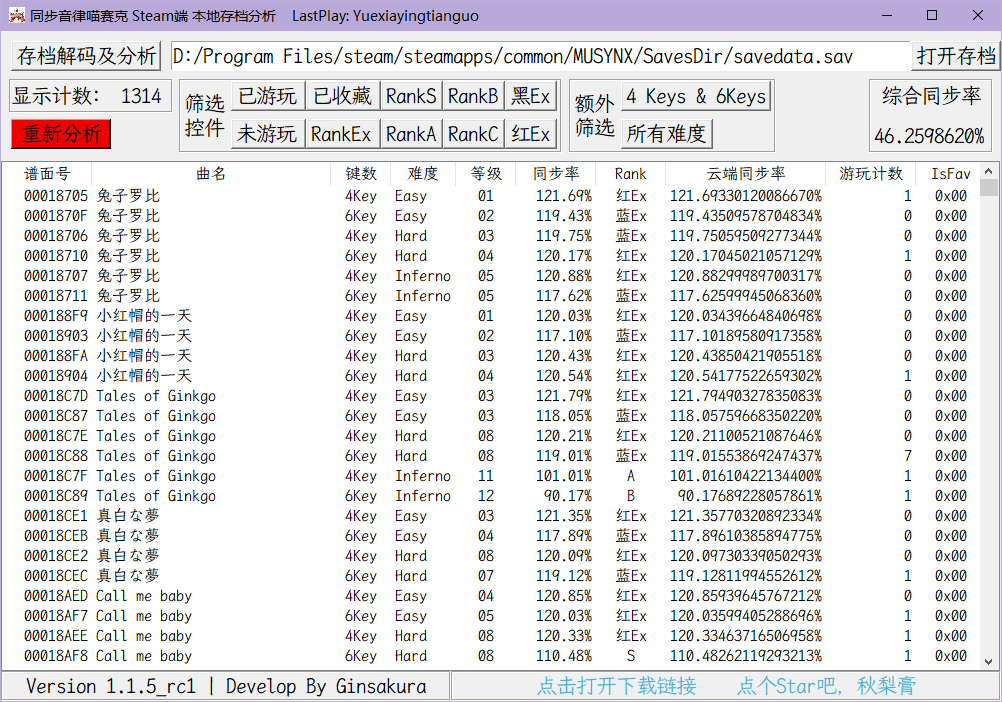
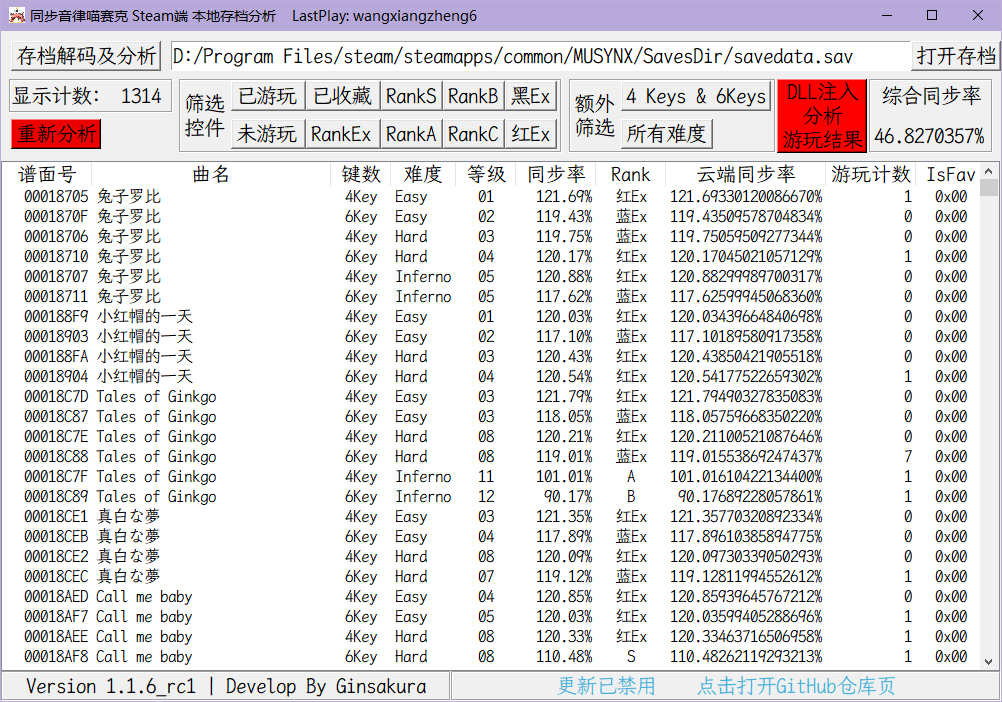
发布1.1.6正式版啦——

diff --git a/HitDelay.py b/HitDelay.py
@@ -9,6 +9,7 @@ from os.path import isfile
 from hashlib import md5
 from os import rename
 from FileExport import WriteHitDelayFix
+import sqlite3 as sql
 
 class HitDelayCheck(object):
 	"""docstring for HitDelayWindow"""
@@ -37,16 +38,26 @@ class HitDelayCheck(object):
 class HitDelayText(object):
 	"""docstring for DrawHDLine"""
 	def __init__(self,subroot):
+		if isfile('./musync_data/HitDelayHistory.db'):
+			self.db = sql.connect('./musync_data/HitDelayHistory.db')
+			self.cur = self.db.cursor()
+
+		else:
+			self.db = sql.connect('./musync_data/HitDelayHistory.db')
+			self.cur = self.db.cursor()
+			self.cur.execute('''create table HitDelayHistory (
+				SongMapName text Primary Key,
+				AvgDelay float,
+				AllKeys int,
+				AvgAcc float,
+				HitMap text);''')
 		self.subroot = subroot
 		self.font=('霞鹜文楷等宽',16)
 		self.subroot.iconbitmap('./musync_data/Musync.ico')
 		self.subroot.geometry(f'1000x600+600+400')
-		style = ttk.Style()
-		style.configure("Treeview", rowheight=20, font=('霞鹜文楷等宽',14))
-		style.configure("Treeview.Heading", rowheight=20, font=('霞鹜文楷等宽',16))
 		self.subroot.title("高精度延迟分析")
 		self.subroot['background'] = '#efefef'
-		self.tipLabel = Label(self.subroot,font=self.font, relief="groove",text='请将控制台中的内容粘贴进右面的文本框，然后点击按钮↘')
+		self.tipLabel = Label(self.subroot,font=self.font, relief="groove",text='↓将您用来辨识谱面的方式填入右侧文本框      请将控制台中的内容粘贴进右面的文本框，然后点击按钮↓')
 		self.tipLabel.place(x=0,y=0,height=40,relwidth=1)
 		self.logText = Text(self.subroot,font=self.font)
 		self.logText.place(relx=0.7,y=70,relheight=0.88,relwidth=0.3)
@@ -57,79 +68,113 @@ class HitDelayText(object):
 		self.nameDelayEntry = Entry(self.subroot,font=self.font, relief="sunken")
 		self.nameDelayEntry.place(relx=0.01,y=100,height=30,relwidth=0.68)
 		self.delayHistory = ttk.Treeview(self.subroot, show="headings", columns = ['name','AllKeys','AvgDelay','AvgAcc'])
-		self.delayHistory.place(x=0,y=130,relheight=0.78,relwidth=0.7)
-		self.VScroll1 = Scrollbar(self.delayHistory, orient='vertical', command=self.delayHistory.yview)
+		self.delayHistory.place(x=0,y=130,relheight=0.78,relwidth=0.68)
+		self.VScroll1 = Scrollbar(self.subroot, orient='vertical', command=self.delayHistory.yview)
 		self.delayHistory.configure(yscrollcommand=self.VScroll1.set)
-		self.VScroll1.place(relx=0.97,rely=0.005,relheight=0.99,width=20)
+		self.VScroll1.place(relx=0.68,y=130,relheight=0.78,relwidth=0.02)
 
-		self.History()
+		self.history = list()
+		self.HistoryUpdate()
 		self.UpdateWindowInfo()
 
+	def HistoryUpdate(self):
+		ids = self.delayHistory.get_children()
+		for idx in ids:
+			self.delayHistory.delete(idx)
+		data = self.cur.execute("select * from HitDelayHistory")
+		data = data.fetchall()
+		for ids in data:
+			self.history = list()
+			self.history.append(ids[0])
+			self.delayHistory.insert('', END, values=(ids[0],ids[2],'%.6f ms'%ids[1],'%.6f ms'%ids[3]))
+		del data
+
 	def Draw(self):
-		data = self.logText.get("0.0", "end")
-		HitDelayDraw(data,self.nameDelayEntry.get())
-		self.History()
+		data = self.logText.get("0.0", "end").split('\n')
+		dataIndex = self.GetIndex(data)
+		dataList=list()
+		name = self.nameDelayEntry.get()+f"-{dt.now()}"
+		if data[-1] == "":
+			data.pop(-1)
+		for ids in range(dataIndex,len(data)-1):
+			dataList.append(float(data[ids][13:-2]))
+		allKeys = len(dataList)
+		avgDelay = sum(dataList)/allKeys
+		avgAcc = sum([abs(i) for i in dataList])/allKeys
+		dataList = [name,avgDelay,allKeys,avgAcc,dataList]
+		self.delayHistory.insert('', END, values=(name,allKeys,'%.6f ms'%avgDelay,'%.6f ms'%avgAcc))
+		dataListStr = ""
+		for i in dataList:
+			dataListStr += f'{i}|'
+		self.cur.execute("insert into HitDelayHistory values(?,?,?,?,?)",(name,avgDelay,allKeys,avgAcc,dataListStr[:-1]))
+		self.db.commit()
+		self.HistoryUpdate()
+		HitDelayDraw(dataList,isHistory=False)
 
-	def History(self):
-		if isfile('./musync_data/HitDelayHistory.json'):
-			with open('./musync_data/HitDelayHistory.json','r',encoding='utf8') as f:
-				history = json.load(f)
-			del f
-			# print(history.keys())
-			for ids in history:
-				self.delayHistory.insert('', END, values=(ids,history[ids][1],'%.6f ms'%history[ids][0],'%.6f ms'%history[ids][2]))
 
+	def GetIndex(self,data):
+		b=list()
+		for index, value in enumerate(data):
+			if value == '> Game Start!':
+				b.append(index)
+		if len(b)==0:
+			return 0
+		else:
+			return (b[-1]+1)
 
-	def HistoryDraw(self,*args):
-		print(args)
-		pass
+	def HistoryDraw(self,event):
+		e = event.widget									# 取得事件控件
+		itemID = e.identify("item",event.x,event.y)			# 取得双击项目id
+		# state = e.item(itemID,"text")						# 取得text参数
+		historyItem = e.item(itemID,"values")				# 取得values参数
+		# print(e.item(itemID))
+		if not self.history == []:
+			data = self.cur.execute(f'select * from HitDelayHistory where SongMapName=\'{historyItem[0]}\'')
+			data = data.fetchone()
+			HitDelayDraw(data,isHistory=True)
+			# print(self.history[historyItem[0]])
 
 	def UpdateWindowInfo(self):
 		self.delayHistory.heading("name",anchor="center",text="曲名/时间")
 		self.delayHistory.heading("AllKeys",anchor="center",text="Keys")
 		self.delayHistory.heading("AvgDelay",anchor="center",text="Delay")
 		self.delayHistory.heading("AvgAcc",anchor="center",text="AvgAcc")
-		self.delayHistory.column("name",anchor="w",width=320)
+		self.delayHistory.column("name",anchor="w",width=300)
 		self.delayHistory.column("AllKeys",anchor="e",width=60)
 		self.delayHistory.column("AvgDelay",anchor="e",width=150)
 		self.delayHistory.column("AvgAcc",anchor="e",width=150)
-		self.subroot.update()
 		self.delayHistory.bind("<Double-1>",self.HistoryDraw)
 
 		self.subroot.update()
-		self.subroot.after(500,self.UpdateWindowInfo)
+		# self.subroot.after(500,self.UpdateWindowInfo)
 
 class HitDelayDraw(object):
 	"""docstring for ClassName"""
-	def __init__(self, data,name):
-		self.data = data.split('\n')
-		self.name = name + f"{dt.now()}"
-		p = self.GetIndex()
-		self.x_axis = [i for i in range(1,len(self.data)-p-1)]
-		self.zero_axis = [0 for i in range(p,len(self.data)-2)]
-		self.EXTRAa = [45 for i in range(p,len(self.data)-2)]
-		self.EXTRAb = [-45 for i in range(p,len(self.data)-2)]
-		self.Extraa = [90 for i in range(p,len(self.data)-2)]
-		self.Extrab = [-90 for i in range(p,len(self.data)-2)]
-		self.Greata = [150 for i in range(p,len(self.data)-2)]
-		self.Greatb = [-150 for i in range(p,len(self.data)-2)]
-		self.Right = [250 for i in range(p,len(self.data)-2)]
-		self.pos = p
-		self.y_axis = list()
-		for i in range(p,len(self.data)-2):
-			# print(self.data[i])
-			print(i,self.data[i])
-			self.y_axis.append(float(self.data[i][13:-2]))
-		# print(self.x_axis,self.y_axis)
-		self.allKeys = len(self.y_axis)
-		self.avgDelay = sum(self.y_axis)/self.allKeys
-		self.avgAcc = sum([abs(i) for i in self.y_axis])/self.allKeys
-		self.fig = plt.figure(f'AvgDelay: {"%.4fms"%self.avgDelay}    AllKeys: {self.allKeys}    AvgAcc: {"%.4fms"%self.avgAcc}',figsize=(9, 4))
-		print(f'AvgDelay: {self.avgDelay}')
-		print(f'AllKeys: {self.allKeys}')
-		print(f'AvgAcc: {self.avgAcc}')
+	def __init__(self, dataList,isHistory=False):
+		self.avgDelay = dataList[1]
+		self.allKeys = dataList[2]
+		self.avgAcc = dataList[3]
+		if isHistory:
+			dataList = [float(i) for i in dataList[4].split("|")]
+		else:
+			dataList = dataList[4]
 
-		self.Write()
+		self.x_axis = [i for i in range(0,len(dataList))]
+		self.zero_axis = [0 for i in range(0,len(dataList))]
+		self.EXTRAa = [45 for i in range(0,len(dataList))]
+		self.EXTRAb = [-45 for i in range(0,len(dataList))]
+		self.Extraa = [90 for i in range(0,len(dataList))]
+		self.Extrab = [-90 for i in range(0,len(dataList))]
+		self.Greata = [150 for i in range(0,len(dataList))]
+		self.Greatb = [-150 for i in range(0,len(dataList))]
+		self.Right = [250 for i in range(0,len(dataList))]
+		self.y_axis = dataList
+
+		# print(self.x_axis,self.y_axis)
+		self.fig = plt.figure(f'AvgDelay: {"%.4fms"%self.avgDelay}    AllKeys: {self.allKeys}    AvgAcc: {"%.4fms"%self.avgAcc}',figsize=(9, 4))
+		print(f'AvgDelay: {self.avgDelay}',end='\t')
+		print(f'AllKeys: {self.allKeys}',end='\t')
+		print(f'AvgAcc: {self.avgAcc}')
 		
 		plt.text(0,70,"Slower→", ha='right',fontsize=10,color='#c22472',rotation=90)
 		plt.text(0,-70,"←Faster", ha='right',va='top',fontsize=10,color='#288328',rotation=90)
@@ -138,15 +183,6 @@ class HitDelayDraw(object):
 		self.Draw()
 		plt.show()
 
-	def GetIndex(self):
-		b=list()
-		for index, value in enumerate(self.data):
-			if value == '> Game Start!':
-				b.append(index)
-		if len(b)==0:
-			return 0
-		else:
-			return (b[-1]+1)
 
 	def Label(self):
 		for x,y in zip(self.x_axis,self.y_axis):
@@ -173,17 +209,6 @@ class HitDelayDraw(object):
 		plt.ylabel('Delay')#y_label
 		plt.gca().yaxis.set_major_locator(MultipleLocator(20))
 		plt.xlim(-15,len(self.x_axis)+15)
-
-	def Write(self):
-		if isfile('./musync_data/HitDelayHistory.json'):
-			with open('./musync_data/HitDelayHistory.json','r',encoding='utf8') as f:
-				pre = json.load(f)
-			pre[self.name] = [self.avgDelay,self.allKeys,self.avgAcc,self.y_axis]
-			with open('./musync_data/HitDelayHistory.json','w',encoding='utf8') as f:
-				json.dump(pre,f,ensure_ascii=False)
-		else:
-			with open('./musync_data/HitDelayHistory.json','w',encoding='utf8') as nf:
-				json.dump({self.name:[self.avgDelay,self.allKeys,self.avgAcc,self.y_axis]},nf,ensure_ascii=False)
 
 if __name__ == '__main__':
 	# HitDelayCheck()

diff --git a/MusyncSavDecodeGUI.py b/MusyncSavDecodeGUI.py
@@ -16,7 +16,7 @@ from HitDelay import HitDelayCheck,HitDelayText
 #import win32gui_struct
 #import win32gui
 #from threading import Thread
-version = '1.1.6_pre1'
+version = '1.1.6_rc1'
 
 class MusyncSavDecodeGUI(object):
 	"""docstring for MusyncSavDecodeGUI"""
@@ -141,7 +141,7 @@ class MusyncSavDecodeGUI(object):
 		if os.path.isfile('./musync_data/AutoAnalyze'):
 			self.DeleteAnalyzeFile()
 		self.CheckFile()
-		if os.path.isfile('./musync_data/ProgramInjection'):
+		if os.path.isfile('./musync_data/InjectionEnable'):
 			self.hitDelay = Button(self.root, text="DLL注入\n分析\n游玩结果",command=self.HitDelay, font=self.font,bg='#FF0000')
 			self.hitDelay.place(x=776,y=48,width=90,height=74)
 		if not os.path.isfile('./musync_data/SaveFilePath.sfp'):
@@ -488,7 +488,7 @@ class MusyncSavDecodeGUI(object):
 
 		self.wh = self.windowInfo[2:]
 		self.root.update()
-		root.after(500,self.UpdateWindowInfo)
+		root.after(1000,self.UpdateWindowInfo)
 
 class SubWindow(object):
 	def __init__(self, nroot, songID, songName, songDifficute):

diff --git a/README.md b/README.md
@@ -2,6 +2,7 @@
 ## 界面展示
 
 ![主页面](./ReadmeResources/main.png "主页面")
+![HitDelay页面](./ReadmeResources/HitDelay.png "HitDelay页面")
 
 ## 未来的计划
 - [ ] 提供全球排行榜显示功能
@@ -22,33 +23,33 @@ WithConsole版本为带命令提示符界面，适合出现bug时快速定位错
 #### 在`./musync_data/`目录中创建指定文件名的无扩展名文件,即可启用/禁用对应功能
 1. `UpdateDisable` 禁用更新检测
 2. `AutoAutoAnalyze` 启用每次启动时强制重新扫描存档文件
+3. `InjectionEnable` 启用DLL注入以开启高级功能
 #### 其他功能组件
 下列组件对游戏客户端有修改,请谨慎使用
 
-***<font style=background:red color=#00FF00> 注意备份  注意备份  注意备份 </font>***
+*** $\colorbox{Red}{ 注意备份  注意备份  注意备份 }$ ***
 
-<font color=#cc0000>请自行决定是否使用,使用过程中出现任何意外</font> ***<font style=background:red> 后果自负,开发者概不负责'</font>***
+$\color{Red}{请自行决定是否使用,使用过程中出现任何意外}$ *** $\colorbox{Red}{ 后果自负,开发者概不负责 }$ ***
 
 
 
-HitDelay模块用法:替换游戏DLL后,在本次游戏进行首次谱面游玩时会打开一个cmd窗口 ***<font color=#cc0000>请勿关闭该窗口</font>***
+HitDelay模块用法:启用DLL注入后,在本次游戏进行首次谱面游玩时会打开一个cmd窗口 *** $\color{Red}{请勿关闭该窗口}$ ***
 
-当您游玩完毕本次谱面后,可以从上文打开的cmd窗口中看见大量的字符信息,用`鼠标左键`单击一下cmd窗口内部或标题栏,然后按`Ctrl+A`键全选,再按`Ctrl+C`键复制,然后打开`./musync_data/HitDelay.log`文件,粘贴进去, **<font color=#cc0000>并保存</font>**,然后执行`HitDelayLine.py`文件即可展示您刚刚的谱面的游玩信息.
 - `HitDelayFix.dll` 被精心修改过的客户端文件,原始文件为`./MUSYNX_Data/Managed/Assembly-CSharp.dll`,如果想要使用,复制替换即可(记得备份原始文件).
 - `HitDelayLine.py` 用于读取`./musync_data/HitDelay.log`中的击打信息生成可视化数据表,标题栏提供三个统计信息.
     - `AvgDelay` 平均击打延迟,即所有击打的平均值,能够一定程度上提示游戏延迟应该调整的数值(可能有较大偏差,仅供参考).
         比如游戏内判定补偿是+010ms,AvgDelay数值为-5ms,那么就应将游戏内判定补偿下调,但是具体需要调整多少请多次测试.
-
     - `AllKeys` 游戏进行了多少次判定,如果有长条中断,这个值会比游戏内真实按键数偏大.
     - `AvgAcc` 平均击打偏差,即所有击打的绝对值的平均值,该值总为正数.
         该值反应了您当前谱面本次游玩击打Key的时机的精准度,该值与您本次游玩的结算成绩有一定的关联:
 
         该值越小,就说明您击打的越精准,(在该值小于45ms时)分值就会越高.
+
 ## 更新日志
 ### Version 1.1.6
-*** 预发布 ***
 1. #### 新增 将DLL注入与详细延迟图表功能整合进主程序中，需要您具备一定的计算机操作能力才可启用
 2. #### 更新 加大了表格内的字体大小，更护眼了
+3. #### 新增 您的历史游玩记录可以在`./musync_data/HitDelayHistory.db`中查看
 3. 修复些许bug(也许?)
 4. 优化执行流程(也许?)
 5. <del>这次打包大小咋突然翻了三倍???<br/>又nm什么原理🌿??？</del>
